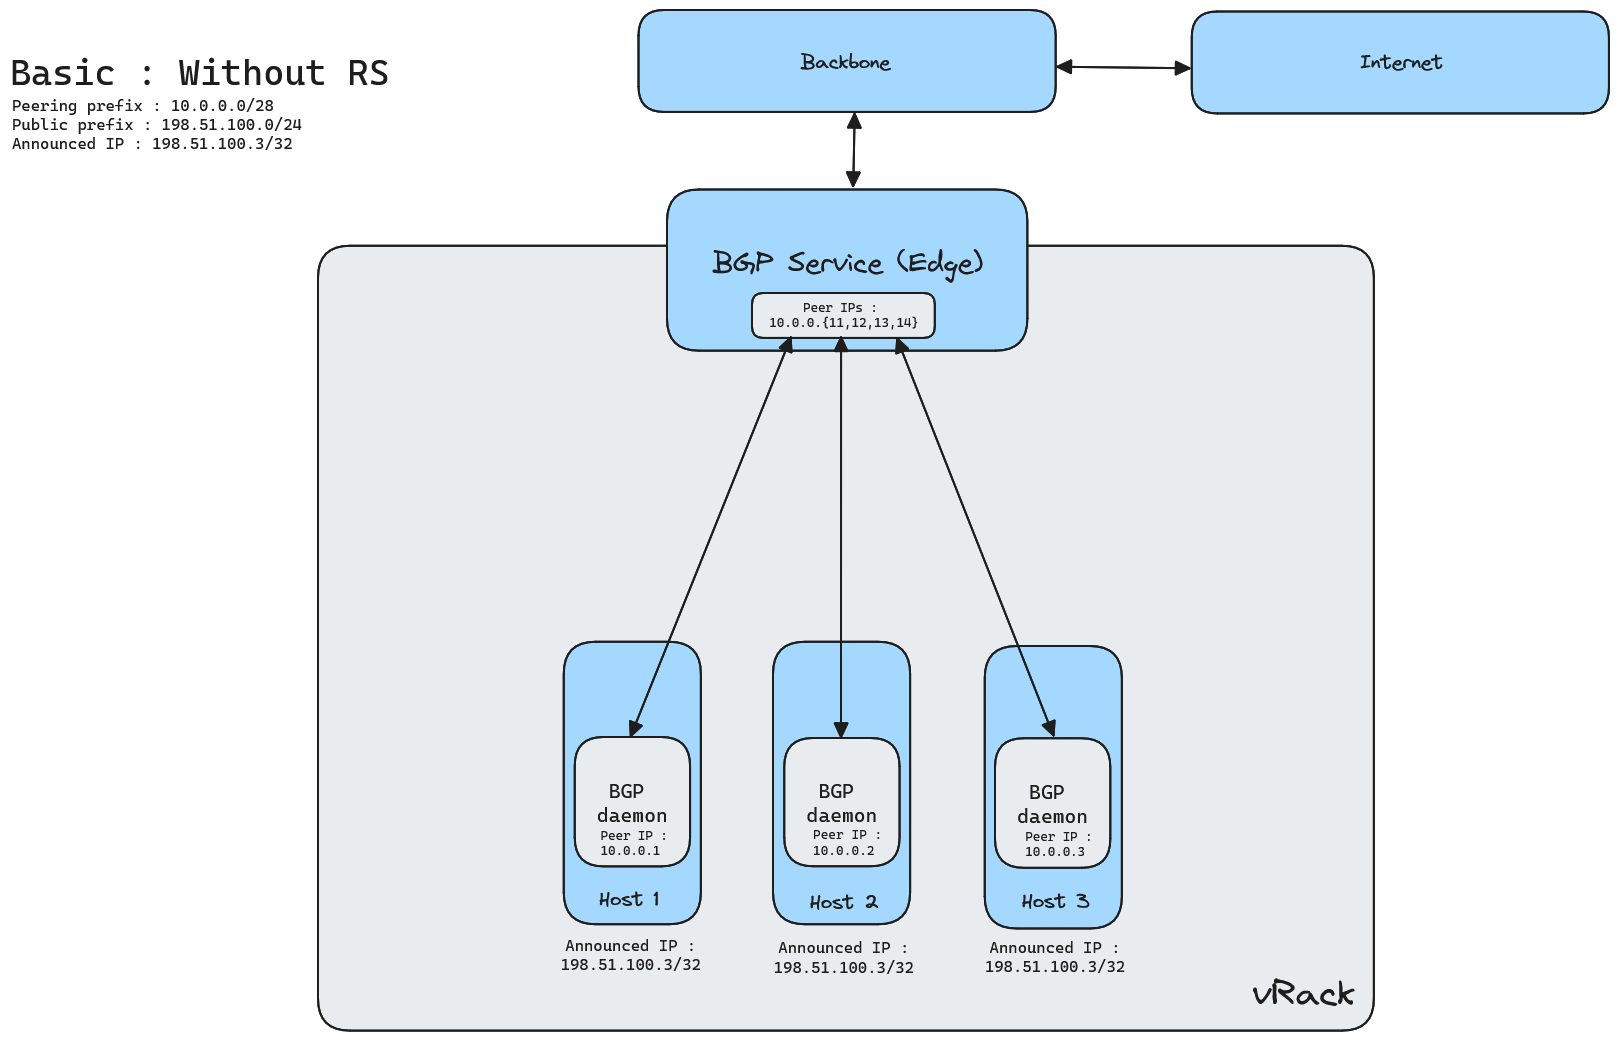
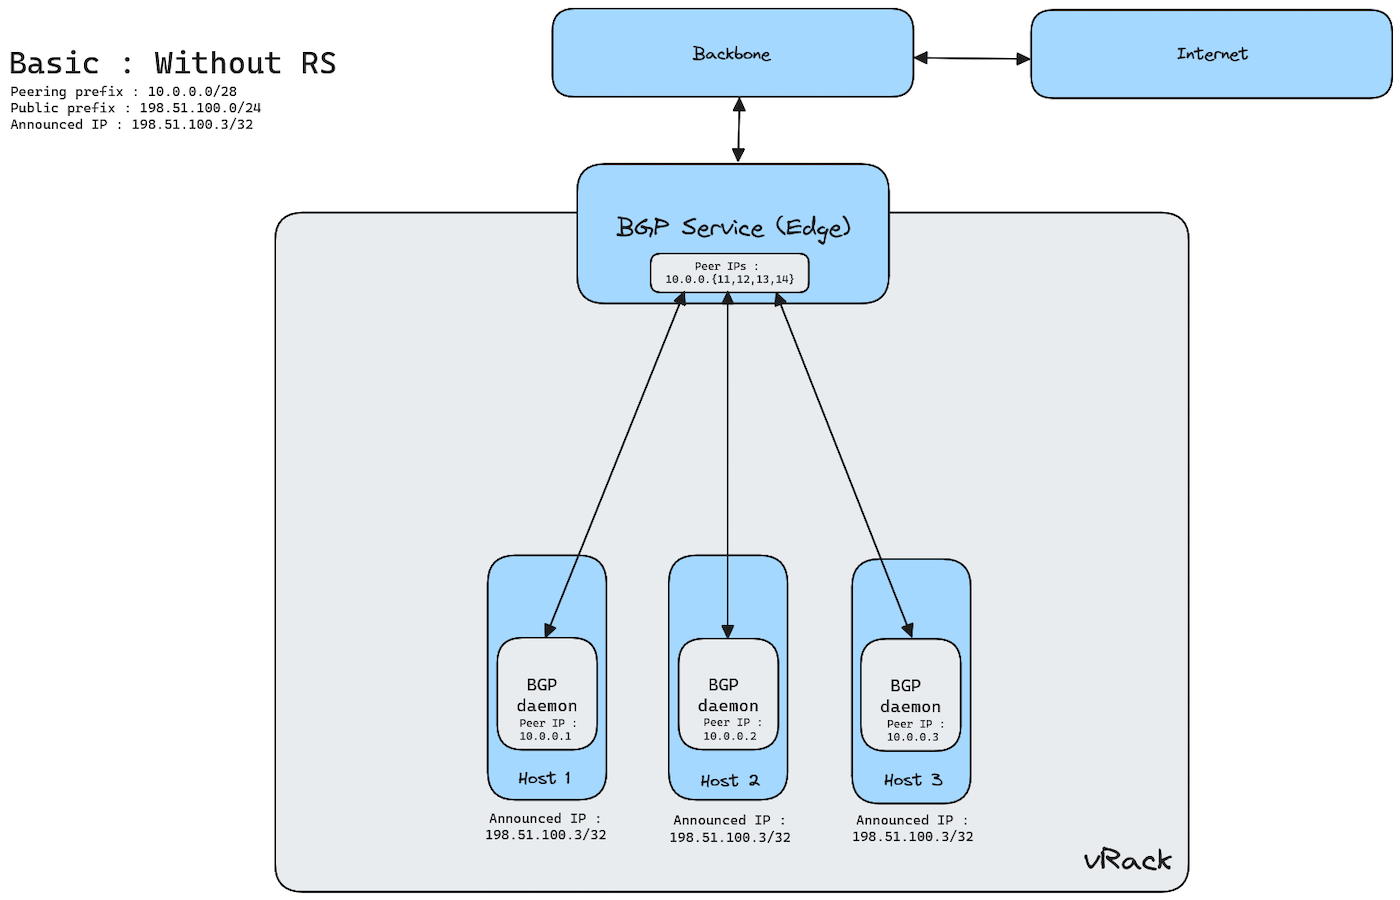
Proofreading & Duplication + Resizing images

diff --git a/pages/network/bgp_service/bgp_service_config/guide.de-de.md b/pages/network/bgp_service/bgp_service_config/guide.de-de.md
@@ -1,7 +1,7 @@
 ---
 title: BGP Service configuration
 excerpt: By using BGP Service, you gain full control over your routing policies and network resilience. Follow this guide to set up and optimize your BGP sessions
-updated: 2025-03-07
+updated: 2025-03-27
 ---
 
 ## Objective
@@ -57,9 +57,9 @@ You need to provide us with the following parameters so that we can configure th
 | :--- | :--- | :--- | :--- |
 | Location	| RBX | The location on which to deliver the service | |
 | vRack ID | 937 | vRack ID on which the BGP sessions will run | |
-| BYOIP | Y | IP block coming from the customer	| |
-| IP block | 198.51.100.0/24 | The IP block to be announced | Allowed range size: <br>&bull; OVHcloud IP (/24 to /30) <br>&bull; BYOIP imported range (/19 to /24) <br>&bull; IPv6 (/56) |
-| Private Subnet | 10.0.0.0 | Reserved subnet for BGP peer IPs <br> The 4 last addresses will be used by OVHcloud for OVHcloud side BGP peers. Netmask should be /28 |  |
+| BYOIP | Y | IP prefix coming from the customer	| |
+| IP prefix | 198.51.100.0/24 | The public IP prefix to be used. <br> Subsets of this prefix may be announced: <br>&bull; For IPv4, any subset up to /32 <br>&bull; For IPv6, any subset up to /64 | Allowed prefix size: <br>&bull; OVHcloud IP (/24 to /30) <br>&bull; BYOIP imported prefix (/19 to /24) <br>&bull; IPv6 (/56) |
+| Private prefix | 10.0.0.0 | Reserved prefix for BGP peer IPs <br> The 4 last addresses will be used by OVHcloud for OVHcloud side BGP peers. | IPv4: Netmask /28 <br> IPv6: Netmask /124 |
 | Peering IP 1 | 10.0.0.1 | Customer IP should be explicitly specified by customer (for OVHcloud-side monitoring) | |
 | Peering IP 2 | 10.0.0.2 | Customer IP should be explicitly specified by customer (for OVHcloud-side monitoring) | |
 | Peering IP 3 | 10.0.0.3 | Customer IP should be explicitly specified by customer (for OVHcloud-side monitoring) | |

diff --git a/pages/network/bgp_service/bgp_service_config/guide.en-asia.md b/pages/network/bgp_service/bgp_service_config/guide.en-asia.md
@@ -1,7 +1,7 @@
 ---
 title: BGP Service configuration
 excerpt: By using BGP Service, you gain full control over your routing policies and network resilience. Follow this guide to set up and optimize your BGP sessions
-updated: 2025-03-07
+updated: 2025-03-27
 ---
 
 ## Objective
@@ -57,9 +57,9 @@ You need to provide us with the following parameters so that we can configure th
 | :--- | :--- | :--- | :--- |
 | Location	| RBX | The location on which to deliver the service | |
 | vRack ID | 937 | vRack ID on which the BGP sessions will run | |
-| BYOIP | Y | IP block coming from the customer	| |
-| IP block | 198.51.100.0/24 | The IP block to be announced | Allowed range size: <br>&bull; OVHcloud IP (/24 to /30) <br>&bull; BYOIP imported range (/19 to /24) <br>&bull; IPv6 (/56) |
-| Private Subnet | 10.0.0.0 | Reserved subnet for BGP peer IPs <br> The 4 last addresses will be used by OVHcloud for OVHcloud side BGP peers. Netmask should be /28 |  |
+| BYOIP | Y | IP prefix coming from the customer	| |
+| IP prefix | 198.51.100.0/24 | The public IP prefix to be used. <br> Subsets of this prefix may be announced: <br>&bull; For IPv4, any subset up to /32 <br>&bull; For IPv6, any subset up to /64 | Allowed prefix size: <br>&bull; OVHcloud IP (/24 to /30) <br>&bull; BYOIP imported prefix (/19 to /24) <br>&bull; IPv6 (/56) |
+| Private prefix | 10.0.0.0 | Reserved prefix for BGP peer IPs <br> The 4 last addresses will be used by OVHcloud for OVHcloud side BGP peers. | IPv4: Netmask /28 <br> IPv6: Netmask /124 |
 | Peering IP 1 | 10.0.0.1 | Customer IP should be explicitly specified by customer (for OVHcloud-side monitoring) | |
 | Peering IP 2 | 10.0.0.2 | Customer IP should be explicitly specified by customer (for OVHcloud-side monitoring) | |
 | Peering IP 3 | 10.0.0.3 | Customer IP should be explicitly specified by customer (for OVHcloud-side monitoring) | |

diff --git a/pages/network/bgp_service/bgp_service_config/guide.en-au.md b/pages/network/bgp_service/bgp_service_config/guide.en-au.md
@@ -1,7 +1,7 @@
 ---
 title: BGP Service configuration
 excerpt: By using BGP Service, you gain full control over your routing policies and network resilience. Follow this guide to set up and optimize your BGP sessions
-updated: 2025-03-07
+updated: 2025-03-27
 ---
 
 ## Objective
@@ -57,9 +57,9 @@ You need to provide us with the following parameters so that we can configure th
 | :--- | :--- | :--- | :--- |
 | Location	| RBX | The location on which to deliver the service | |
 | vRack ID | 937 | vRack ID on which the BGP sessions will run | |
-| BYOIP | Y | IP block coming from the customer	| |
-| IP block | 198.51.100.0/24 | The IP block to be announced | Allowed range size: <br>&bull; OVHcloud IP (/24 to /30) <br>&bull; BYOIP imported range (/19 to /24) <br>&bull; IPv6 (/56) |
-| Private Subnet | 10.0.0.0 | Reserved subnet for BGP peer IPs <br> The 4 last addresses will be used by OVHcloud for OVHcloud side BGP peers. Netmask should be /28 |  |
+| BYOIP | Y | IP prefix coming from the customer	| |
+| IP prefix | 198.51.100.0/24 | The public IP prefix to be used. <br> Subsets of this prefix may be announced: <br>&bull; For IPv4, any subset up to /32 <br>&bull; For IPv6, any subset up to /64 | Allowed prefix size: <br>&bull; OVHcloud IP (/24 to /30) <br>&bull; BYOIP imported prefix (/19 to /24) <br>&bull; IPv6 (/56) |
+| Private prefix | 10.0.0.0 | Reserved prefix for BGP peer IPs <br> The 4 last addresses will be used by OVHcloud for OVHcloud side BGP peers. | IPv4: Netmask /28 <br> IPv6: Netmask /124 |
 | Peering IP 1 | 10.0.0.1 | Customer IP should be explicitly specified by customer (for OVHcloud-side monitoring) | |
 | Peering IP 2 | 10.0.0.2 | Customer IP should be explicitly specified by customer (for OVHcloud-side monitoring) | |
 | Peering IP 3 | 10.0.0.3 | Customer IP should be explicitly specified by customer (for OVHcloud-side monitoring) | |

diff --git a/pages/network/bgp_service/bgp_service_config/guide.en-ca.md b/pages/network/bgp_service/bgp_service_config/guide.en-ca.md
@@ -1,7 +1,7 @@
 ---
 title: BGP Service configuration
 excerpt: By using BGP Service, you gain full control over your routing policies and network resilience. Follow this guide to set up and optimize your BGP sessions
-updated: 2025-03-07
+updated: 2025-03-27
 ---
 
 ## Objective
@@ -57,9 +57,9 @@ You need to provide us with the following parameters so that we can configure th
 | :--- | :--- | :--- | :--- |
 | Location	| RBX | The location on which to deliver the service | |
 | vRack ID | 937 | vRack ID on which the BGP sessions will run | |
-| BYOIP | Y | IP block coming from the customer	| |
-| IP block | 198.51.100.0/24 | The IP block to be announced | Allowed range size: <br>&bull; OVHcloud IP (/24 to /30) <br>&bull; BYOIP imported range (/19 to /24) <br>&bull; IPv6 (/56) |
-| Private Subnet | 10.0.0.0 | Reserved subnet for BGP peer IPs <br> The 4 last addresses will be used by OVHcloud for OVHcloud side BGP peers. Netmask should be /28 |  |
+| BYOIP | Y | IP prefix coming from the customer	| |
+| IP prefix | 198.51.100.0/24 | The public IP prefix to be used. <br> Subsets of this prefix may be announced: <br>&bull; For IPv4, any subset up to /32 <br>&bull; For IPv6, any subset up to /64 | Allowed prefix size: <br>&bull; OVHcloud IP (/24 to /30) <br>&bull; BYOIP imported prefix (/19 to /24) <br>&bull; IPv6 (/56) |
+| Private prefix | 10.0.0.0 | Reserved prefix for BGP peer IPs <br> The 4 last addresses will be used by OVHcloud for OVHcloud side BGP peers. | IPv4: Netmask /28 <br> IPv6: Netmask /124 |
 | Peering IP 1 | 10.0.0.1 | Customer IP should be explicitly specified by customer (for OVHcloud-side monitoring) | |
 | Peering IP 2 | 10.0.0.2 | Customer IP should be explicitly specified by customer (for OVHcloud-side monitoring) | |
 | Peering IP 3 | 10.0.0.3 | Customer IP should be explicitly specified by customer (for OVHcloud-side monitoring) | |

diff --git a/pages/network/bgp_service/bgp_service_config/guide.en-ie.md b/pages/network/bgp_service/bgp_service_config/guide.en-ie.md
@@ -1,7 +1,7 @@
 ---
 title: BGP Service configuration
 excerpt: By using BGP Service, you gain full control over your routing policies and network resilience. Follow this guide to set up and optimize your BGP sessions
-updated: 2025-03-07
+updated: 2025-03-27
 ---
 
 ## Objective
@@ -57,9 +57,9 @@ You need to provide us with the following parameters so that we can configure th
 | :--- | :--- | :--- | :--- |
 | Location	| RBX | The location on which to deliver the service | |
 | vRack ID | 937 | vRack ID on which the BGP sessions will run | |
-| BYOIP | Y | IP block coming from the customer	| |
-| IP block | 198.51.100.0/24 | The IP block to be announced | Allowed range size: <br>&bull; OVHcloud IP (/24 to /30) <br>&bull; BYOIP imported range (/19 to /24) <br>&bull; IPv6 (/56) |
-| Private Subnet | 10.0.0.0 | Reserved subnet for BGP peer IPs <br> The 4 last addresses will be used by OVHcloud for OVHcloud side BGP peers. Netmask should be /28 |  |
+| BYOIP | Y | IP prefix coming from the customer	| |
+| IP prefix | 198.51.100.0/24 | The public IP prefix to be used. <br> Subsets of this prefix may be announced: <br>&bull; For IPv4, any subset up to /32 <br>&bull; For IPv6, any subset up to /64 | Allowed prefix size: <br>&bull; OVHcloud IP (/24 to /30) <br>&bull; BYOIP imported prefix (/19 to /24) <br>&bull; IPv6 (/56) |
+| Private prefix | 10.0.0.0 | Reserved prefix for BGP peer IPs <br> The 4 last addresses will be used by OVHcloud for OVHcloud side BGP peers. | IPv4: Netmask /28 <br> IPv6: Netmask /124 |
 | Peering IP 1 | 10.0.0.1 | Customer IP should be explicitly specified by customer (for OVHcloud-side monitoring) | |
 | Peering IP 2 | 10.0.0.2 | Customer IP should be explicitly specified by customer (for OVHcloud-side monitoring) | |
 | Peering IP 3 | 10.0.0.3 | Customer IP should be explicitly specified by customer (for OVHcloud-side monitoring) | |

diff --git a/pages/network/bgp_service/bgp_service_config/guide.en-sg.md b/pages/network/bgp_service/bgp_service_config/guide.en-sg.md
@@ -1,7 +1,7 @@
 ---
 title: BGP Service configuration
 excerpt: By using BGP Service, you gain full control over your routing policies and network resilience. Follow this guide to set up and optimize your BGP sessions
-updated: 2025-03-07
+updated: 2025-03-27
 ---
 
 ## Objective
@@ -57,9 +57,9 @@ You need to provide us with the following parameters so that we can configure th
 | :--- | :--- | :--- | :--- |
 | Location	| RBX | The location on which to deliver the service | |
 | vRack ID | 937 | vRack ID on which the BGP sessions will run | |
-| BYOIP | Y | IP block coming from the customer	| |
-| IP block | 198.51.100.0/24 | The IP block to be announced | Allowed range size: <br>&bull; OVHcloud IP (/24 to /30) <br>&bull; BYOIP imported range (/19 to /24) <br>&bull; IPv6 (/56) |
-| Private Subnet | 10.0.0.0 | Reserved subnet for BGP peer IPs <br> The 4 last addresses will be used by OVHcloud for OVHcloud side BGP peers. Netmask should be /28 |  |
+| BYOIP | Y | IP prefix coming from the customer	| |
+| IP prefix | 198.51.100.0/24 | The public IP prefix to be used. <br> Subsets of this prefix may be announced: <br>&bull; For IPv4, any subset up to /32 <br>&bull; For IPv6, any subset up to /64 | Allowed prefix size: <br>&bull; OVHcloud IP (/24 to /30) <br>&bull; BYOIP imported prefix (/19 to /24) <br>&bull; IPv6 (/56) |
+| Private prefix | 10.0.0.0 | Reserved prefix for BGP peer IPs <br> The 4 last addresses will be used by OVHcloud for OVHcloud side BGP peers. | IPv4: Netmask /28 <br> IPv6: Netmask /124 |
 | Peering IP 1 | 10.0.0.1 | Customer IP should be explicitly specified by customer (for OVHcloud-side monitoring) | |
 | Peering IP 2 | 10.0.0.2 | Customer IP should be explicitly specified by customer (for OVHcloud-side monitoring) | |
 | Peering IP 3 | 10.0.0.3 | Customer IP should be explicitly specified by customer (for OVHcloud-side monitoring) | |

diff --git a/pages/network/bgp_service/bgp_service_config/guide.en-us.md b/pages/network/bgp_service/bgp_service_config/guide.en-us.md
@@ -1,7 +1,7 @@
 ---
 title: BGP Service configuration
 excerpt: By using BGP Service, you gain full control over your routing policies and network resilience. Follow this guide to set up and optimize your BGP sessions
-updated: 2025-03-07
+updated: 2025-03-27
 ---
 
 ## Objective
@@ -57,9 +57,9 @@ You need to provide us with the following parameters so that we can configure th
 | :--- | :--- | :--- | :--- |
 | Location	| RBX | The location on which to deliver the service | |
 | vRack ID | 937 | vRack ID on which the BGP sessions will run | |
-| BYOIP | Y | IP block coming from the customer	| |
-| IP block | 198.51.100.0/24 | The IP block to be announced | Allowed range size: <br>&bull; OVHcloud IP (/24 to /30) <br>&bull; BYOIP imported range (/19 to /24) <br>&bull; IPv6 (/56) |
-| Private Subnet | 10.0.0.0 | Reserved subnet for BGP peer IPs <br> The 4 last addresses will be used by OVHcloud for OVHcloud side BGP peers. Netmask should be /28 |  |
+| BYOIP | Y | IP prefix coming from the customer	| |
+| IP prefix | 198.51.100.0/24 | The public IP prefix to be used. <br> Subsets of this prefix may be announced: <br>&bull; For IPv4, any subset up to /32 <br>&bull; For IPv6, any subset up to /64 | Allowed prefix size: <br>&bull; OVHcloud IP (/24 to /30) <br>&bull; BYOIP imported prefix (/19 to /24) <br>&bull; IPv6 (/56) |
+| Private prefix | 10.0.0.0 | Reserved prefix for BGP peer IPs <br> The 4 last addresses will be used by OVHcloud for OVHcloud side BGP peers. | IPv4: Netmask /28 <br> IPv6: Netmask /124 |
 | Peering IP 1 | 10.0.0.1 | Customer IP should be explicitly specified by customer (for OVHcloud-side monitoring) | |
 | Peering IP 2 | 10.0.0.2 | Customer IP should be explicitly specified by customer (for OVHcloud-side monitoring) | |
 | Peering IP 3 | 10.0.0.3 | Customer IP should be explicitly specified by customer (for OVHcloud-side monitoring) | |

diff --git a/pages/network/bgp_service/bgp_service_config/guide.es-es.md b/pages/network/bgp_service/bgp_service_config/guide.es-es.md
@@ -1,7 +1,7 @@
 ---
 title: BGP Service configuration
 excerpt: By using BGP Service, you gain full control over your routing policies and network resilience. Follow this guide to set up and optimize your BGP sessions
-updated: 2025-03-07
+updated: 2025-03-27
 ---
 
 ## Objective
@@ -57,9 +57,9 @@ You need to provide us with the following parameters so that we can configure th
 | :--- | :--- | :--- | :--- |
 | Location	| RBX | The location on which to deliver the service | |
 | vRack ID | 937 | vRack ID on which the BGP sessions will run | |
-| BYOIP | Y | IP block coming from the customer	| |
-| IP block | 198.51.100.0/24 | The IP block to be announced | Allowed range size: <br>&bull; OVHcloud IP (/24 to /30) <br>&bull; BYOIP imported range (/19 to /24) <br>&bull; IPv6 (/56) |
-| Private Subnet | 10.0.0.0 | Reserved subnet for BGP peer IPs <br> The 4 last addresses will be used by OVHcloud for OVHcloud side BGP peers. Netmask should be /28 |  |
+| BYOIP | Y | IP prefix coming from the customer	| |
+| IP prefix | 198.51.100.0/24 | The public IP prefix to be used. <br> Subsets of this prefix may be announced: <br>&bull; For IPv4, any subset up to /32 <br>&bull; For IPv6, any subset up to /64 | Allowed prefix size: <br>&bull; OVHcloud IP (/24 to /30) <br>&bull; BYOIP imported prefix (/19 to /24) <br>&bull; IPv6 (/56) |
+| Private prefix | 10.0.0.0 | Reserved prefix for BGP peer IPs <br> The 4 last addresses will be used by OVHcloud for OVHcloud side BGP peers. | IPv4: Netmask /28 <br> IPv6: Netmask /124 |
 | Peering IP 1 | 10.0.0.1 | Customer IP should be explicitly specified by customer (for OVHcloud-side monitoring) | |
 | Peering IP 2 | 10.0.0.2 | Customer IP should be explicitly specified by customer (for OVHcloud-side monitoring) | |
 | Peering IP 3 | 10.0.0.3 | Customer IP should be explicitly specified by customer (for OVHcloud-side monitoring) | |

diff --git a/pages/network/bgp_service/bgp_service_config/guide.es-us.md b/pages/network/bgp_service/bgp_service_config/guide.es-us.md
@@ -1,7 +1,7 @@
 ---
 title: BGP Service configuration
 excerpt: By using BGP Service, you gain full control over your routing policies and network resilience. Follow this guide to set up and optimize your BGP sessions
-updated: 2025-03-07
+updated: 2025-03-27
 ---
 
 ## Objective
@@ -57,9 +57,9 @@ You need to provide us with the following parameters so that we can configure th
 | :--- | :--- | :--- | :--- |
 | Location	| RBX | The location on which to deliver the service | |
 | vRack ID | 937 | vRack ID on which the BGP sessions will run | |
-| BYOIP | Y | IP block coming from the customer	| |
-| IP block | 198.51.100.0/24 | The IP block to be announced | Allowed range size: <br>&bull; OVHcloud IP (/24 to /30) <br>&bull; BYOIP imported range (/19 to /24) <br>&bull; IPv6 (/56) |
-| Private Subnet | 10.0.0.0 | Reserved subnet for BGP peer IPs <br> The 4 last addresses will be used by OVHcloud for OVHcloud side BGP peers. Netmask should be /28 |  |
+| BYOIP | Y | IP prefix coming from the customer	| |
+| IP prefix | 198.51.100.0/24 | The public IP prefix to be used. <br> Subsets of this prefix may be announced: <br>&bull; For IPv4, any subset up to /32 <br>&bull; For IPv6, any subset up to /64 | Allowed prefix size: <br>&bull; OVHcloud IP (/24 to /30) <br>&bull; BYOIP imported prefix (/19 to /24) <br>&bull; IPv6 (/56) |
+| Private prefix | 10.0.0.0 | Reserved prefix for BGP peer IPs <br> The 4 last addresses will be used by OVHcloud for OVHcloud side BGP peers. | IPv4: Netmask /28 <br> IPv6: Netmask /124 |
 | Peering IP 1 | 10.0.0.1 | Customer IP should be explicitly specified by customer (for OVHcloud-side monitoring) | |
 | Peering IP 2 | 10.0.0.2 | Customer IP should be explicitly specified by customer (for OVHcloud-side monitoring) | |
 | Peering IP 3 | 10.0.0.3 | Customer IP should be explicitly specified by customer (for OVHcloud-side monitoring) | |

diff --git a/pages/network/bgp_service/bgp_service_config/guide.fr-ca.md b/pages/network/bgp_service/bgp_service_config/guide.fr-ca.md
@@ -1,7 +1,7 @@
 ---
 title: Configuration du service BGP
 excerpt: En utilisant le service BGP, vous bénéficiez d'un contrôle total sur vos politiques de routage et la résilience du réseau. Suivez ce guide pour configurer et optimiser vos sessions BGP
-updated: 2025-03-07
+updated: 2025-03-27
 ---
 
 ## Objectif
@@ -57,9 +57,9 @@ Vous devez nous fournir les paramètres suivants afin que nous puissions configu
 | :--- | :--- | :--- | :--- |
 | Localisation	| RBX | Emplacement de livraison du service | |
 | ID vRack | 937 | ID du vRack sur lequel les sessions BGP vont s'exécuter | |
-| BYOIP | Y | Bloc d’IP fourni par le client	| |
-| Bloc IP | 198.51.100.0/24 | Le bloc d'IP à annoncer | Netmask: /24 <br> Taille de plage autorisée : <br>&bull; IP OVHcloud (/24 à /30) <br>&bull; plage importée BYOIP (/19 à /24) <br>&bull; IPv6 (/56) |
-| Sous-réseau privé | 10.0.0.0 | Sous-réseau réservé aux les IP des pairs BGP <br> Les 4 dernières adresses seront utilisées par OVHcloud pour les pairs BGP côté OVHcloud | Netmask: /28 |
+| BYOIP | Y | Préfixe IP fourni par le client | |
+| Préfixe IP | 198.51.100.0/24 | Le préfixe IP public à utiliser <br> Des sous-ensembles appartenant à ce préfixe peuvent être annoncés : <br>&bull; Pour l'IPv4, n'importe quel sous-ensemble jusqu'à /32 <br>&bull; Pour l'IPv6, n'importe quel sous-ensemble jusqu'à /64 | Taille de préfixe autorisée : <br>&bull; IP OVHcloud (/24 à /30) <br>&bull; préfixe importé BYOIP (/19 à /24) <br>&bull; IPv6 (/56) |
+| Préfixe privé | 10.0.0.0 | Préfixe réservé aux IP des pairs BGP <br> Les 4 dernières adresses seront utilisées par OVHcloud pour les pairs BGP côté OVHcloud | IPv4 : Netmask /28 <br> IPv6 : Netmask /124 |
 | Peering IP 1 | 10.0.0.1 | L'IP du client doit être spécifiée par ce dernier (pour le monitoring côté OVHcloud) | |
 | Peering IP 2 | 10.0.0.2 | L'IP du client doit être spécifiée par ce dernier (pour le monitoring côté OVHcloud) | |
 | Peering IP 3 | 10.0.0.3 | L'IP du client doit être spécifiée par ce dernier (pour le monitoring côté OVHcloud) | |

diff --git a/pages/network/bgp_service/bgp_service_config/guide.it-it.md b/pages/network/bgp_service/bgp_service_config/guide.it-it.md
@@ -1,7 +1,7 @@
 ---
 title: BGP Service configuration
 excerpt: By using BGP Service, you gain full control over your routing policies and network resilience. Follow this guide to set up and optimize your BGP sessions
-updated: 2025-03-07
+updated: 2025-03-27
 ---
 
 ## Objective
@@ -57,9 +57,9 @@ You need to provide us with the following parameters so that we can configure th
 | :--- | :--- | :--- | :--- |
 | Location	| RBX | The location on which to deliver the service | |
 | vRack ID | 937 | vRack ID on which the BGP sessions will run | |
-| BYOIP | Y | IP block coming from the customer	| |
-| IP block | 198.51.100.0/24 | The IP block to be announced | Allowed range size: <br>&bull; OVHcloud IP (/24 to /30) <br>&bull; BYOIP imported range (/19 to /24) <br>&bull; IPv6 (/56) |
-| Private Subnet | 10.0.0.0 | Reserved subnet for BGP peer IPs <br> The 4 last addresses will be used by OVHcloud for OVHcloud side BGP peers. Netmask should be /28 |  |
+| BYOIP | Y | IP prefix coming from the customer	| |
+| IP prefix | 198.51.100.0/24 | The public IP prefix to be used. <br> Subsets of this prefix may be announced: <br>&bull; For IPv4, any subset up to /32 <br>&bull; For IPv6, any subset up to /64 | Allowed prefix size: <br>&bull; OVHcloud IP (/24 to /30) <br>&bull; BYOIP imported prefix (/19 to /24) <br>&bull; IPv6 (/56) |
+| Private prefix | 10.0.0.0 | Reserved prefix for BGP peer IPs <br> The 4 last addresses will be used by OVHcloud for OVHcloud side BGP peers. | IPv4: Netmask /28 <br> IPv6: Netmask /124 |
 | Peering IP 1 | 10.0.0.1 | Customer IP should be explicitly specified by customer (for OVHcloud-side monitoring) | |
 | Peering IP 2 | 10.0.0.2 | Customer IP should be explicitly specified by customer (for OVHcloud-side monitoring) | |
 | Peering IP 3 | 10.0.0.3 | Customer IP should be explicitly specified by customer (for OVHcloud-side monitoring) | |

diff --git a/pages/network/bgp_service/bgp_service_config/guide.pl-pl.md b/pages/network/bgp_service/bgp_service_config/guide.pl-pl.md
@@ -1,7 +1,7 @@
 ---
 title: BGP Service configuration
 excerpt: By using BGP Service, you gain full control over your routing policies and network resilience. Follow this guide to set up and optimize your BGP sessions
-updated: 2025-03-07
+updated: 2025-03-27
 ---
 
 ## Objective
@@ -57,9 +57,9 @@ You need to provide us with the following parameters so that we can configure th
 | :--- | :--- | :--- | :--- |
 | Location	| RBX | The location on which to deliver the service | |
 | vRack ID | 937 | vRack ID on which the BGP sessions will run | |
-| BYOIP | Y | IP block coming from the customer	| |
-| IP block | 198.51.100.0/24 | The IP block to be announced | Allowed range size: <br>&bull; OVHcloud IP (/24 to /30) <br>&bull; BYOIP imported range (/19 to /24) <br>&bull; IPv6 (/56) |
-| Private Subnet | 10.0.0.0 | Reserved subnet for BGP peer IPs <br> The 4 last addresses will be used by OVHcloud for OVHcloud side BGP peers. Netmask should be /28 |  |
+| BYOIP | Y | IP prefix coming from the customer	| |
+| IP prefix | 198.51.100.0/24 | The public IP prefix to be used. <br> Subsets of this prefix may be announced: <br>&bull; For IPv4, any subset up to /32 <br>&bull; For IPv6, any subset up to /64 | Allowed prefix size: <br>&bull; OVHcloud IP (/24 to /30) <br>&bull; BYOIP imported prefix (/19 to /24) <br>&bull; IPv6 (/56) |
+| Private prefix | 10.0.0.0 | Reserved prefix for BGP peer IPs <br> The 4 last addresses will be used by OVHcloud for OVHcloud side BGP peers. | IPv4: Netmask /28 <br> IPv6: Netmask /124 |
 | Peering IP 1 | 10.0.0.1 | Customer IP should be explicitly specified by customer (for OVHcloud-side monitoring) | |
 | Peering IP 2 | 10.0.0.2 | Customer IP should be explicitly specified by customer (for OVHcloud-side monitoring) | |
 | Peering IP 3 | 10.0.0.3 | Customer IP should be explicitly specified by customer (for OVHcloud-side monitoring) | |